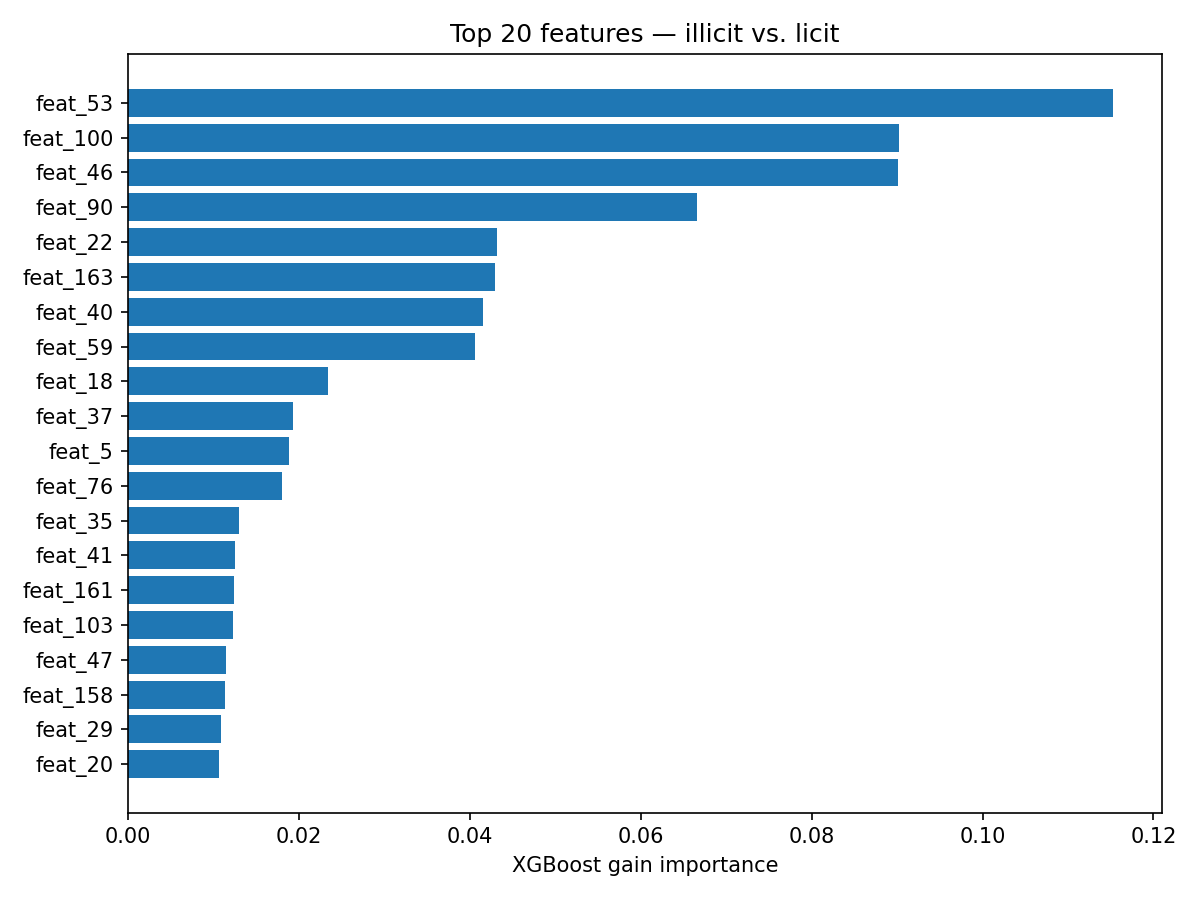
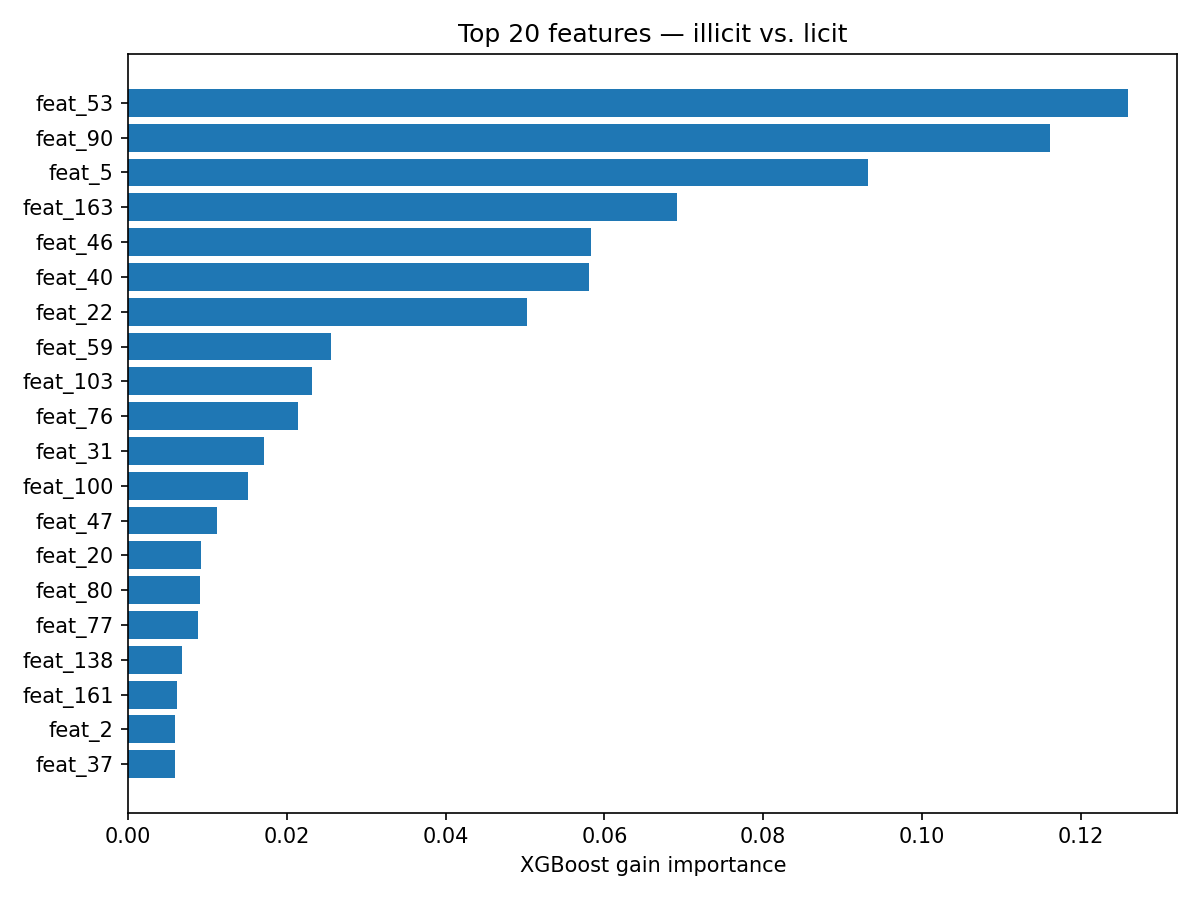
Run Phase 2 hyperparameter sweep; reconcile headline numbers
25-trial optuna sweep over XGBoost (max_depth, n_estimators, learning_rate,
scale_pos_weight) lifts baseline F1 from 0.683 to 0.711, now the best
standalone model in the project. Updated README and results/*.md to cite
the tuned number consistently instead of the untuned one.

diff --git a/results/robustness_attempt.md b/results/robustness_attempt.md
@@ -7,4 +7,4 @@ Fix results next to the Phase 4 inductive baseline numbers:
 | gcn+temporal_consistency | 0.513 | 0.428 |
 | gcn+rf_ensemble | 0.716 | 0.664 |
 
-**Findings:** given Phase 4's finding that there is no real transductive/inductive leakage gap to close on this dataset (edges never cross time steps), the more meaningful comparison here is against the standalone inductive GCN (F1≈0.26–0.53 across runs, high seed variance — see `results/error_analysis.md`) and the plain baseline (RF F1=0.706, XGBoost F1=0.683, from `results/baseline_metrics.json`). The temporal-consistency regularizer did *not* help — F1=0.513 is within the GCN's own seed-to-seed noise band, consistent with there being no temporal-leakage failure mode for it to correct in the first place, since it was designed to counter exactly the cross-time-step leakage that Phase 4 showed doesn't exist here. The confidence-weighted ensemble did help, and by a meaningful, non-noise margin: F1=0.716 edges out the best standalone baseline (RF, 0.706) and comfortably beats the standalone GCN. The learned mixing weight (alpha=0.2, i.e. 80% baseline / 20% GNN) makes sense given the GNN's much higher variance and generally lower solo F1 — the ensemble is mostly the reliable baseline with a small, apparently net-positive correction from the graph model, rather than the GNN meaningfully driving performance on its own.
+**Findings:** given Phase 4's finding that there is no real transductive/inductive leakage gap to close on this dataset (edges never cross time steps), the more meaningful comparison here is against the standalone inductive GCN (F1≈0.26–0.53 across runs, high seed variance — see `results/error_analysis.md`) and the plain baselines (RF F1=0.706, tuned XGBoost F1=0.711, from `results/baseline_metrics.json`). The temporal-consistency regularizer did *not* help — F1=0.513 is within the GCN's own seed-to-seed noise band, consistent with there being no temporal-leakage failure mode for it to correct in the first place, since it was designed to counter exactly the cross-time-step leakage that Phase 4 showed doesn't exist here. The confidence-weighted ensemble (built on the untuned RF, not the later-tuned XGBoost) did help, and by a meaningful, non-noise margin: F1=0.716 edges out every standalone model in this project, baseline or GNN, including the tuned XGBoost. The learned mixing weight (alpha=0.2, i.e. 80% baseline / 20% GNN) makes sense given the GNN's much higher variance and generally lower solo F1 — the ensemble is mostly the reliable baseline with a small, apparently net-positive correction from the graph model, rather than the GNN meaningfully driving performance on its own.

diff --git a/README.md b/README.md
@@ -62,7 +62,7 @@ reaches F1=0.612, the single best plain-GNN number found, still short of the bas
 
 | Model | Precision | Recall | F1 | AUC-PR |
 |---|---|---|---|---|
-| Baseline (XGBoost) | 0.791 | 0.601 | 0.683 | 0.674 |
+| Baseline (XGBoost, tuned — 25-trial optuna sweep) | 0.889 | 0.593 | 0.711 | 0.673 |
 | Baseline (Random Forest) | 0.975 | 0.553 | 0.706 | 0.665 |
 | GCN (transductive) | 0.667 | 0.467 | 0.549 | 0.507 |
 | GraphSAGE (transductive) | — | — | 0.292 | — |
@@ -75,7 +75,7 @@ see `results/error_analysis.md`) — a limitation worth flagging on its own, not
 number to average away._
 
 **Headline finding**: on this dataset, no GNN configuration beats the feature-only
-Random Forest baseline on its own — and the standard transductive-vs-inductive
+baseline on its own (tuned XGBoost, F1=0.711) — and the standard transductive-vs-inductive
 "leakage" story from the literature doesn't apply here at all, because **every edge in
 the raw Elliptic edgelist connects two nodes in the same time step** (0 of 234,355
 cross a time-step boundary, verified directly on the CSVs — see the EDA notebook and
@@ -86,7 +86,8 @@ test turned out to be the edge-shuffle ablation: real transaction topology (F1=0
 clearly outperforms degree-preserving random rewiring (F1=0.176 ± 0.018) — the graph
 structure is carrying genuine signal, it just isn't enough on its own to beat a good
 feature-only model. The one fix that helped was the simplest one: a confidence-weighted
-ensemble of the GNN and the baseline (Phase 5) edges out the standalone baseline.
+ensemble of the GNN and the (untuned) Random Forest baseline (Phase 5) reaches F1=0.716,
+edging out every standalone model including the tuned XGBoost baseline above.
 
 Full writeups: [`results/leakage_gap_analysis.md`](results/leakage_gap_analysis.md)
 (the central Phase 4 finding), [`results/robustness_attempt.md`](results/robustness_attempt.md)
@@ -193,8 +194,9 @@ hyperparameter-search infrastructure beyond a simple `optuna` sweep.
 > question to a degree-preserving edge-shuffle ablation showing real
 > transaction topology does carry genuine signal (F1=0.257 vs. 0.176±0.018
 > for randomly rewired graphs) even though no standalone GNN beat a tuned
-> Random Forest (F1=0.706 vs. 0.612 best GNN); closed most of that gap with
-> a confidence-weighted GNN+baseline ensemble (F1=0.716).
+> baseline (F1=0.711 vs. 0.612 best standalone GNN); a confidence-weighted
+> GNN+baseline ensemble ultimately edged out the standalone baseline too
+> (F1=0.716).
 
 ## License
 

diff --git a/results/leakage_gap_analysis.md b/results/leakage_gap_analysis.md
@@ -6,7 +6,7 @@ Comparison below uses GCN/GraphSAGE at a matched 2-layer depth (the only depth b
 
 | Model | Transductive F1 | Inductive F1 | Shuffled-graph F1 (mean ± std) |
 |---|---|---|---|
-| Baseline (XGBoost) | 0.683 | 0.683 (time-based split; no graph structure involved) | n/a |
+| Baseline (XGBoost) | 0.711 | 0.711 (time-based split; no graph structure involved) | n/a |
 | Baseline (Random Forest) | 0.706 | 0.706 (time-based split; no graph structure involved) | n/a |
 | GCN | 0.549 | 0.526 | 0.176 ± 0.018 |
 | GraphSAGE | 0.292 | 0.314 | — |
